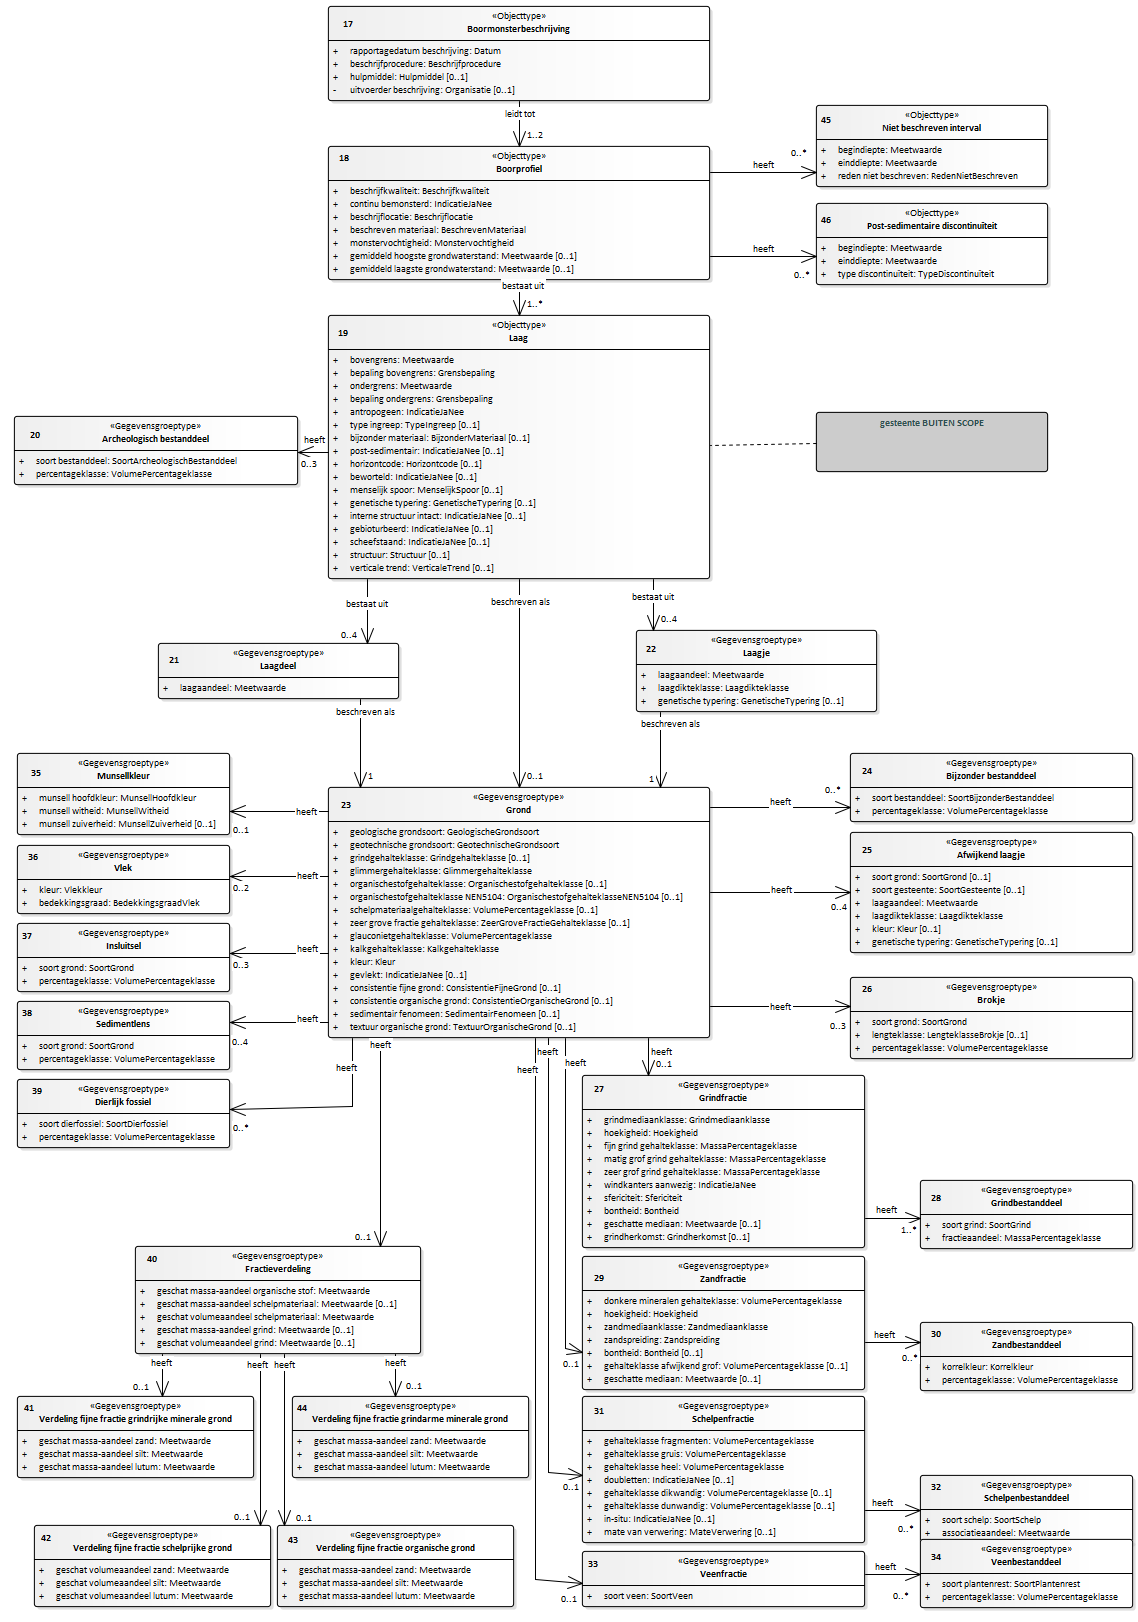
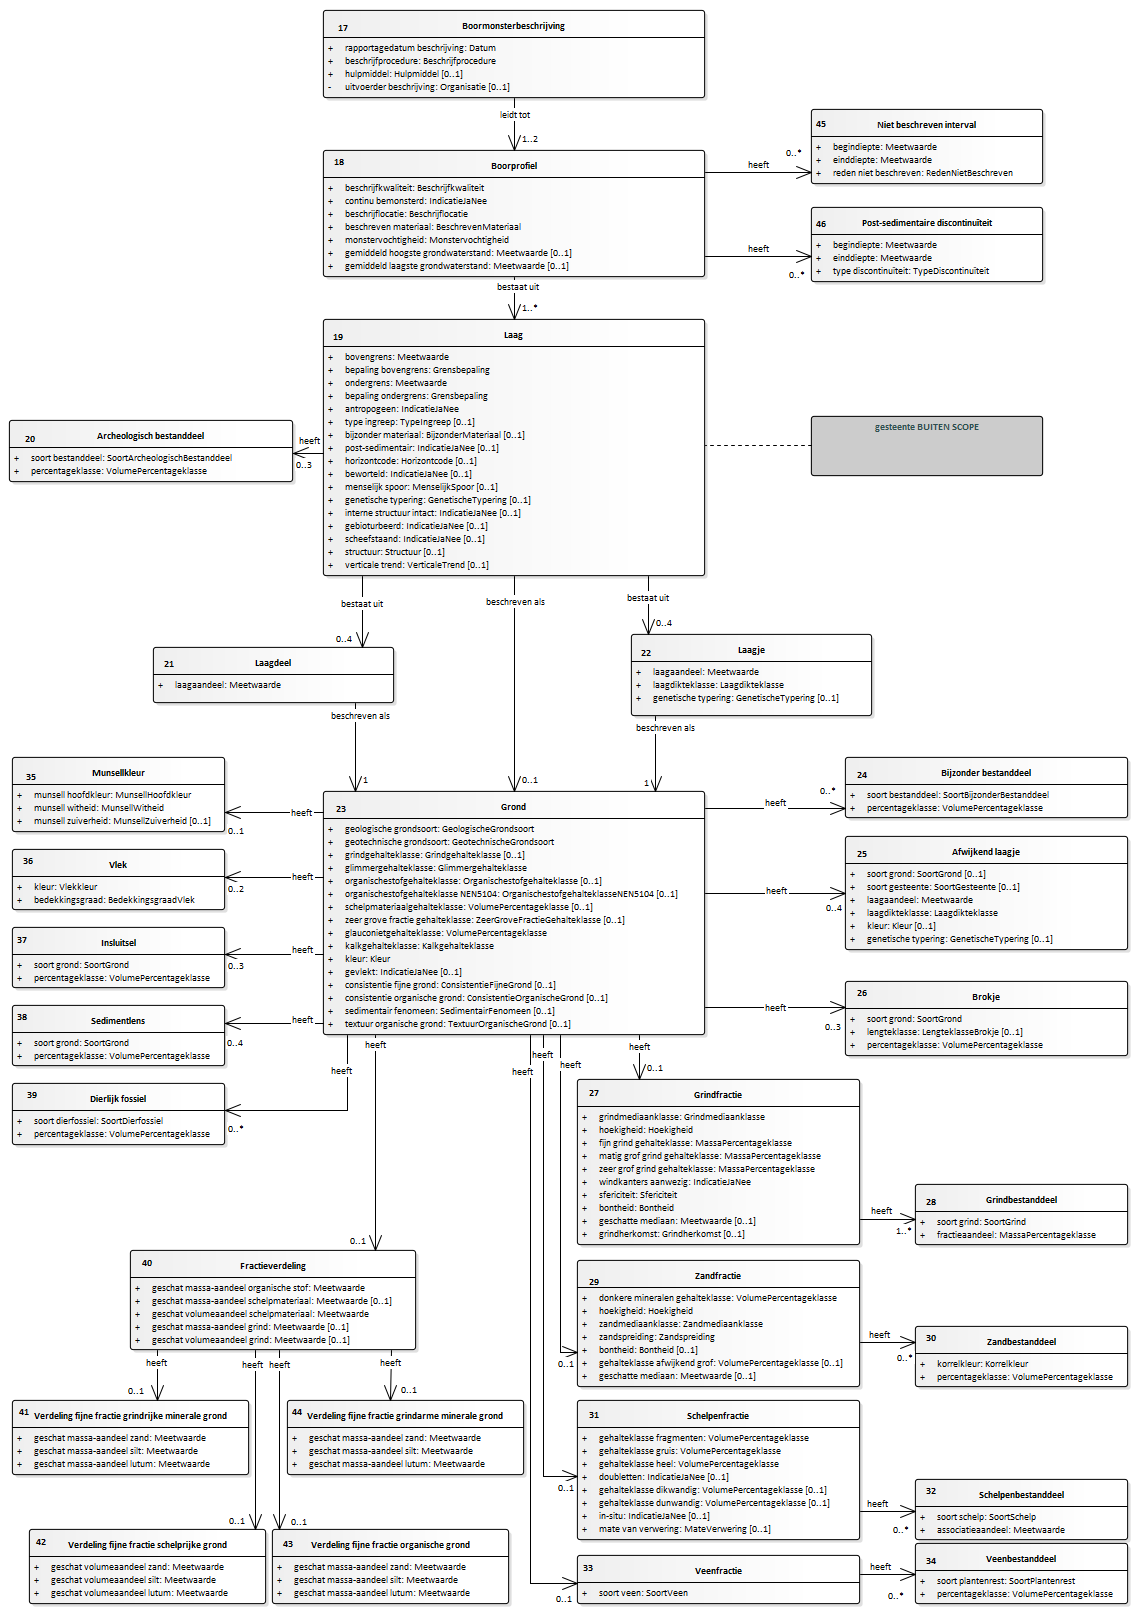
Conceptualmodel-GeologischbooronderzoekBHR-G-0.99-3-20200518-20200612-120352

diff --git a/data/BHR-G-cat.msword.html b/data/BHR-G-cat.msword.html
@@ -15,7 +15,7 @@
    <body>
       <p>Conceptual model/Geologisch booronderzoek (BHR-G)/20200518</p>
       <p>Imvertor: 1.60.0</p>
-      <p>Model release: Conceptualmodel-GeologischbooronderzoekBHR-G-0.99-3-20200518-20200612-113150</p>
+      <p>Model release: Conceptualmodel-GeologischbooronderzoekBHR-G-0.99-3-20200518-20200612-120352</p>
       <hr>
       <section>
          <h1>Artikel 1 Definitie van registratieobject, entiteiten en attributen</h1>
@@ -63,9 +63,11 @@
          <section>
             <h2>Het domeinmodel</h2>
             <section id="">
-               <div class="imageinfo overview"><img src="Images/EAID_B03B3DD6_C3FE_48fb_A2E3_66DF26B3775E.png" usemap="#imagemap-EAID_B03B3DD6_C3FE_48fb_A2E3_66DF26B3775E" alt="Diagram "><map name="imagemap-EAID_B03B3DD6_C3FE_48fb_A2E3_66DF26B3775E"><area shape="rect" alt="Boormonsterbeschrijving" coords="51,681,297,765" href="#graph_EAID_D89A831D_A496_41a9_AE6D_57069276AAC1"><area shape="rect" alt="Sliblaag" coords="10,551,338,649" href="#graph_EAID_6B7C049A_F2ED_4391_AEE5_49B2A387FDDF"><area shape="rect" alt="Terreintoestand" coords="787,409,1104,533" href="#graph_EAID_A1ADB2AE_C1B7_46a4_B599_DC0D0AD9F805"><area shape="rect" alt="Afgewerkt interval" coords="511,1206,796,1356" href="#graph_EAID_6B4288D5_BEF3_4680_90F4_9F076D0FC218"><area shape="rect" alt="Verontreinigd interval" coords="604,1115,796,1187" href="#graph_EAID_16F266E3_C973_4529_966E_A77E16CDBA8A"><area shape="rect" alt="Bemonsteringsapparaat" coords="877,1200,1123,1389" href="#graph_EAID_0AB2C94F_0BED_4e73_A604_516206E06046"><area shape="rect" alt="Bemonsterd interval" coords="877,1019,1123,1143" href="#graph_EAID_0575B591_1E52_4c9b_A2D6_F043C4141D37"><area shape="rect" alt="Geboord interval" coords="877,815,1123,913" href="#graph_EAID_ABF55F88_28B6_4d57_8D8A_F121A3AA0F51"><area shape="rect" alt="Weggegraven laag" coords="877,713,1123,798" href="#graph_EAID_6EB72656_FB81_4560_ACB8_5C3707345FCD"><area shape="rect" alt="Boring" coords="508,713,793,1019" href="#graph_EAID_AA486803_23A2_4a00_AA43_2F9E7827E064"><area shape="rect" alt="Gestandaardiseerde locatie" coords="787,302,1104,387" href="#graph_EAID_C5393969_2BB7_404b_BBF9_2124533B091A"><area shape="rect" alt="Aangeleverde verticale positie" coords="787,143,1104,280" href="#graph_EAID_68439F20_C656_42fd_B7EA_16FFDF536416"><area shape="rect" alt="Aangeleverde locatie" coords="787,10,1104,121" href="#graph_EAID_C4A3A09F_45F0_4623_AE32_E8AF9A703C62"><area shape="rect" alt="Tussentijdse gebeurtenis" coords="51,366,297,438" href="#graph_EAID_725A4724_B6D0_4341_A1C4_4F93AD3E6216"><area shape="rect" alt="Rapportagegeschiedenis" coords="51,246,297,318" href="#graph_EAID_8BEA8373_8624_4cd9_80EA_7EC93CED307F"><area shape="rect" alt="Registratiegeschiedenis" coords="10,10,338,212" href="#graph_EAID_C7F3AA17_23C9_4038_AA5F_EA56515F2929"><area shape="rect" alt="Booronderzoek" coords="400,10,716,212" href="#graph_EAID_660D0220_39EE_4290_AD92_C8E8CCEDB502"></map><p><b>Domeinmodel geologisch booronderzoek - Algemeen deel</b></p>
+               <div class="imageinfo overview"><img src="Images/EAID_B03B3DD6_C3FE_48fb_A2E3_66DF26B3775E.png" usemap="#imagemap-EAID_B03B3DD6_C3FE_48fb_A2E3_66DF26B3775E" alt="Diagram "><map name="imagemap-EAID_B03B3DD6_C3FE_48fb_A2E3_66DF26B3775E"><area shape="rect" alt="Boormonsteranalyse" coords="51,785,297,847" href="#graph_EAID_D7019E53_2AEA_424d_B23C_BFE117C25244"><area shape="rect" alt="Boormonsterbeschrijving" coords="51,681,297,743" href="#graph_EAID_D89A831D_A496_41a9_AE6D_57069276AAC1"><area shape="rect" alt="Sliblaag" coords="10,551,338,639" href="#graph_EAID_6B7C049A_F2ED_4391_AEE5_49B2A387FDDF"><area shape="rect" alt="Terreintoestand" coords="788,409,1104,523" href="#graph_EAID_A1ADB2AE_C1B7_46a4_B599_DC0D0AD9F805"><area shape="rect" alt="Afgewerkt interval" coords="511,1206,796,1346" href="#graph_EAID_6B4288D5_BEF3_4680_90F4_9F076D0FC218"><area shape="rect" alt="Verontreinigd interval" coords="604,1115,796,1177" href="#graph_EAID_16F266E3_C973_4529_966E_A77E16CDBA8A"><area shape="rect" alt="Bemonsteringsapparaat" coords="878,1200,1124,1379" href="#graph_EAID_0AB2C94F_0BED_4e73_A604_516206E06046"><area shape="rect" alt="Bemonsterd interval" coords="878,1022,1124,1136" href="#graph_EAID_0575B591_1E52_4c9b_A2D6_F043C4141D37"><area shape="rect" alt="Geboord interval" coords="878,815,1124,903" href="#graph_EAID_ABF55F88_28B6_4d57_8D8A_F121A3AA0F51"><area shape="rect" alt="Weggegraven laag" coords="878,713,1124,788" href="#graph_EAID_6EB72656_FB81_4560_ACB8_5C3707345FCD"><area shape="rect" alt="Boring" coords="508,713,793,1009" href="#graph_EAID_AA486803_23A2_4a00_AA43_2F9E7827E064"><area shape="rect" alt="Gestandaardiseerde locatie" coords="788,302,1104,377" href="#graph_EAID_C5393969_2BB7_404b_BBF9_2124533B091A"><area shape="rect" alt="Aangeleverde verticale positie" coords="788,143,1104,270" href="#graph_EAID_68439F20_C656_42fd_B7EA_16FFDF536416"><area shape="rect" alt="Aangeleverde locatie" coords="788,10,1106,111" href="#graph_EAID_C4A3A09F_45F0_4623_AE32_E8AF9A703C62"><area shape="rect" alt="Tussentijdse gebeurtenis" coords="51,366,297,428" href="#graph_EAID_725A4724_B6D0_4341_A1C4_4F93AD3E6216"><area shape="rect" alt="Rapportagegeschiedenis" coords="51,246,297,308" href="#graph_EAID_8BEA8373_8624_4cd9_80EA_7EC93CED307F"><area shape="rect" alt="Registratiegeschiedenis" coords="10,10,338,202" href="#graph_EAID_C7F3AA17_23C9_4038_AA5F_EA56515F2929"><area shape="rect" alt="Booronderzoek" coords="400,10,716,202" href="#graph_EAID_660D0220_39EE_4290_AD92_C8E8CCEDB502"></map><p><b>Domeinmodel geologisch booronderzoek - Algemeen deel</b></p>
                </div>
-               <div class="imageinfo overview"><img src="Images/EAID_A794A5F1_C52E_4a52_952F_D4257486C44D.png" usemap="#imagemap-EAID_A794A5F1_C52E_4a52_952F_D4257486C44D" alt="Diagram "><map name="imagemap-EAID_A794A5F1_C52E_4a52_952F_D4257486C44D"><area shape="rect" alt="Verdeling fijne fractie grindarme minerale grond" coords="292,1396,529,1478" href="#graph_EAID_6EE3DDDC_4909_4509_91BD_DDE3546FD55F"><area shape="rect" alt="Verdeling fijne fractie grindrijke minerale grond" coords="17,1396,254,1478" href="#graph_EAID_816F849B_EE57_4a63_B163_A7708B5EEF58"><area shape="rect" alt="Verdeling fijne fractie organische grond" coords="277,1525,514,1607" href="#graph_EAID_267BF639_C106_452f_A5DD_15FE467A3CF1"><area shape="rect" alt="Verdeling fijne fractie schelprijke grond" coords="34,1525,271,1607" href="#graph_EAID_93CE8907_FF55_4bd2_9E36_DA5B6F968E38"><area shape="rect" alt="Grindbestanddeel" coords="920,1180,1133,1249" href="#graph_EAID_4A0EAA22_B98A_40ab_99E0_04698F4C08BA"><area shape="rect" alt="Post-sedimentaire discontinuïteit" coords="816,203,1048,285" href="#graph_EAID_D8B61D97_C848_4530_A9DB_F214501ADF53"><area shape="rect" alt="Niet beschreven interval" coords="816,105,1048,187" href="#graph_EAID_D1B8B5BC_2593_4287_9911_E6AFEA261BCB"><area shape="rect" alt="Bijzonder bestanddeel" coords="850,753,1133,822" href="#graph_EAID_4F0594D5_D60B_4108_9A38_37406AA2A82C"><area shape="rect" alt="Archeologisch bestanddeel" coords="14,416,298,485" href="#graph_EAID_B5980F7E_4643_4554_8989_9286F031438D"><area shape="rect" alt="Veenbestanddeel" coords="920,1539,1133,1608" href="#graph_EAID_5F3BDA14_511E_4a71_B495_D18EA8D07526"><area shape="rect" alt="Dierlijk fossiel" coords="17,1079,230,1148" href="#graph_EAID_831DEC3E_C820_4cdd_8716_2130C32598A1"><area shape="rect" alt="Veenfractie" coords="582,1551,865,1607" href="#graph_EAID_D6519331_24B7_47db_96A6_0FDEF29D8598"><area shape="rect" alt="Insluitsel" coords="17,923,230,992" href="#graph_EAID_E9F6F0A4_C882_499a_9B69_8BFFC789091A"><area shape="rect" alt="Brokje" coords="850,977,1133,1059" href="#graph_EAID_E8E4BF08_C14B_422f_B5CC_EA90D8C691A8"><area shape="rect" alt="Sedimentlens" coords="17,1001,230,1070" href="#graph_EAID_96EA69F6_8C0A_495d_94DF_0C167447E3B2"><area shape="rect" alt="Schelpenbestanddeel" coords="920,1475,1133,1544" href="#graph_EAID_C6FB2597_5E69_4628_8DF5_A873F0BAC191"><area shape="rect" alt="Zandbestanddeel" coords="920,1322,1133,1391" href="#graph_EAID_A1C6C395_67C4_415f_B2B5_6D6AE296AAF1"><area shape="rect" alt="Schelpenfractie" coords="582,1396,865,1543" href="#graph_EAID_D94CB687_314F_497b_A97E_690C3FD45DCB"><area shape="rect" alt="Zandfractie" coords="582,1256,865,1390" href="#graph_EAID_F59FA036_0FB6_4102_B548_E3739D0F5337"><area shape="rect" alt="Grindfractie" coords="582,1075,865,1248" href="#graph_EAID_D638B481_2AB7_4cfa_8561_70F7790464B9"><area shape="rect" alt="Afwijkend laagje" coords="850,832,1133,953" href="#graph_EAID_71614E69_2DE8_47f6_BA28_42B91F39124E"><area shape="rect" alt="Laagje" coords="636,630,877,712" href="#graph_EAID_4EEEBF52_4872_4f50_A22C_1C42EAC70AEA"><area shape="rect" alt="Vlek" coords="17,845,230,914" href="#graph_EAID_5684B88C_B0A6_4f15_80B9_F014EC274105"><area shape="rect" alt="Munsellkleur" coords="17,753,230,835" href="#graph_EAID_0FA2E403_645C_4be0_86DA_2B5302628A29"><area shape="rect" alt="Fractieverdeling" coords="135,1246,421,1354" href="#graph_EAID_6986D2AE_EA69_4af6_812A_7C4CA90CCBF2"><area shape="rect" alt="Laagdeel" coords="158,643,399,699" href="#graph_EAID_DD0E1CDE_BC0D_4800_B824_DC905C0B6959"><area shape="rect" alt="Laag" coords="328,315,710,579" href="#graph_EAID_F9410F95_1E35_49a6_8BB8_D0E18D712643"><area shape="rect" alt="Boorprofiel" coords="328,146,710,280" href="#graph_EAID_2BA8A9AC_A3C1_452a_983C_282727BF9036"><area shape="rect" alt="Boormonsterbeschrijving" coords="328,6,710,101" href="#graph_EAID_D89A831D_A496_41a9_AE6D_57069276AAC1"><area shape="rect" alt="Grond" coords="328,787,710,1038" href="#graph_EAID_9A1B738F_E114_4c70_BDAF_7EABE244ADA0"></map><p><b>Domeinmodel geologisch booronderzoek - Boormonsterbeschrijving</b></p>
+               <div class="imageinfo overview"><img src="Images/EAID_A794A5F1_C52E_4a52_952F_D4257486C44D.png" usemap="#imagemap-EAID_A794A5F1_C52E_4a52_952F_D4257486C44D" alt="Diagram "><map name="imagemap-EAID_A794A5F1_C52E_4a52_952F_D4257486C44D"><area shape="rect" alt="Verdeling fijne fractie grindarme minerale grond" coords="287,1400,524,1475" href="#graph_EAID_6EE3DDDC_4909_4509_91BD_DDE3546FD55F"><area shape="rect" alt="Verdeling fijne fractie grindrijke minerale grond" coords="12,1400,249,1475" href="#graph_EAID_816F849B_EE57_4a63_B163_A7708B5EEF58"><area shape="rect" alt="Verdeling fijne fractie organische grond" coords="272,1529,509,1604" href="#graph_EAID_267BF639_C106_452f_A5DD_15FE467A3CF1"><area shape="rect" alt="Verdeling fijne fractie schelprijke grond" coords="29,1529,266,1604" href="#graph_EAID_93CE8907_FF55_4bd2_9E36_DA5B6F968E38"><area shape="rect" alt="Grindbestanddeel" coords="915,1184,1128,1245" href="#graph_EAID_4A0EAA22_B98A_40ab_99E0_04698F4C08BA"><area shape="rect" alt="Post-sedimentaire discontinuïteit" coords="811,207,1043,282" href="#graph_EAID_D8B61D97_C848_4530_A9DB_F214501ADF53"><area shape="rect" alt="Niet beschreven interval" coords="811,109,1043,184" href="#graph_EAID_D1B8B5BC_2593_4287_9911_E6AFEA261BCB"><area shape="rect" alt="Bijzonder bestanddeel" coords="845,757,1128,818" href="#graph_EAID_4F0594D5_D60B_4108_9A38_37406AA2A82C"><area shape="rect" alt="Archeologisch bestanddeel" coords="9,420,293,482" href="#graph_EAID_B5980F7E_4643_4554_8989_9286F031438D"><area shape="rect" alt="Veenbestanddeel" coords="915,1543,1128,1604" href="#graph_EAID_5F3BDA14_511E_4a71_B495_D18EA8D07526"><area shape="rect" alt="Dierlijk fossiel" coords="12,1083,225,1145" href="#graph_EAID_831DEC3E_C820_4cdd_8716_2130C32598A1"><area shape="rect" alt="Veenfractie" coords="577,1555,860,1604" href="#graph_EAID_D6519331_24B7_47db_96A6_0FDEF29D8598"><area shape="rect" alt="Insluitsel" coords="12,927,225,988" href="#graph_EAID_E9F6F0A4_C882_499a_9B69_8BFFC789091A"><area shape="rect" alt="Brokje" coords="845,981,1128,1056" href="#graph_EAID_E8E4BF08_C14B_422f_B5CC_EA90D8C691A8"><area shape="rect" alt="Sedimentlens" coords="12,1005,225,1066" href="#graph_EAID_96EA69F6_8C0A_495d_94DF_0C167447E3B2"><area shape="rect" alt="Schelpenbestanddeel" coords="915,1479,1128,1540" href="#graph_EAID_C6FB2597_5E69_4628_8DF5_A873F0BAC191"><area shape="rect" alt="Zandbestanddeel" coords="915,1326,1128,1387" href="#graph_EAID_A1C6C395_67C4_415f_B2B5_6D6AE296AAF1"><area shape="rect" alt="Schelpenfractie" coords="577,1400,860,1540" href="#graph_EAID_D94CB687_314F_497b_A97E_690C3FD45DCB"><area shape="rect" alt="Zandfractie" coords="577,1260,860,1387" href="#graph_EAID_F59FA036_0FB6_4102_B548_E3739D0F5337"><area shape="rect" alt="Grindfractie" coords="577,1079,860,1245" href="#graph_EAID_D638B481_2AB7_4cfa_8561_70F7790464B9"><area shape="rect" alt="Afwijkend laagje" coords="845,836,1128,950" href="#graph_EAID_71614E69_2DE8_47f6_BA28_42B91F39124E"><area shape="rect" alt="Laagje" coords="631,634,872,716" href="#graph_EAID_4EEEBF52_4872_4f50_A22C_1C42EAC70AEA"><area shape="rect" alt="Vlek" coords="12,849,225,910" href="#graph_EAID_5684B88C_B0A6_4f15_80B9_F014EC274105"><area shape="rect" alt="Munsellkleur" coords="12,757,225,832" href="#graph_EAID_0FA2E403_645C_4be0_86DA_2B5302628A29"><area shape="rect" alt="Fractieverdeling" coords="130,1250,416,1350" href="#graph_EAID_6986D2AE_EA69_4af6_812A_7C4CA90CCBF2"><area shape="rect" alt="Laagdeel" coords="153,647,394,703" href="#graph_EAID_DD0E1CDE_BC0D_4800_B824_DC905C0B6959"><area shape="rect" alt="Laag" coords="323,319,705,576" href="#graph_EAID_F9410F95_1E35_49a6_8BB8_D0E18D712643"><area shape="rect" alt="Boorprofiel" coords="323,150,705,277" href="#graph_EAID_2BA8A9AC_A3C1_452a_983C_282727BF9036"><area shape="rect" alt="Boormonsterbeschrijving" coords="323,10,705,98" href="#graph_EAID_D89A831D_A496_41a9_AE6D_57069276AAC1"><area shape="rect" alt="Grond" coords="323,791,705,1035" href="#graph_EAID_9A1B738F_E114_4c70_BDAF_7EABE244ADA0"></map><p><b>Domeinmodel geologisch booronderzoek - Boormonsterbeschrijving</b></p>
+               </div>
+               <div class="imageinfo overview"><img src="Images/EAID_76F6DEFC_B55C_48dc_8A41_C06CB9C946E4.png" usemap="#imagemap-EAID_76F6DEFC_B55C_48dc_8A41_C06CB9C946E4" alt="Diagram "><map name="imagemap-EAID_76F6DEFC_B55C_48dc_8A41_C06CB9C946E4"><area shape="rect" alt="Booronderzoek" coords="386,10,656,280" href="#graph_EAID_660D0220_39EE_4290_AD92_C8E8CCEDB502"><area shape="rect" alt="Bepaling volumieke massa vaste delen" coords="813,700,1091,827" href="#graph_EAID_2D03813A_C48B_4e71_858B_6AABF0111E5E"><area shape="rect" alt="Bepaling volumieke massa" coords="772,334,1061,435" href="#graph_EAID_FFAF64DE_5D7E_4590_8753_73F2984A2840"><area shape="rect" alt="Droogtemperatuur" coords="1139,578,1286,637" href="#graph_EAID_E8A9C654_6F39_4e73_842E_3798AAC46F2F"><area shape="rect" alt="BijzonderheidUitvoering" coords="1139,653,1286,712" href="#graph_EAID_A1C8B1DA_DADC_4917_B0A2_D47FF0389360"><area shape="rect" alt="Bepalingsprocedure" coords="1139,428,1286,487" href="#graph_EAID_432D4A75_623B_4617_958E_F73A45FC2E8E"><area shape="rect" alt="Bepalingsmethode" coords="1139,503,1286,562" href="#graph_EAID_121F1353_865E_4d90_BDA2_33E283671265"><area shape="rect" alt="BijzonderheidMateriaal" coords="1139,728,1286,800" href="#graph_EAID_2DB6B02D_D054_400e_AF7C_FED89AD042CA"><area shape="rect" alt="Bepaling droge volumieke massa" coords="813,556,1086,656" href="#graph_EAID_2A85811A_3E9F_4a76_9752_6A86F4B7BB4D"><area shape="rect" alt="Verzadigingsfase" coords="75,779,297,841" href="#graph_EAID_F9C46665_BBB9_4c61_9DC1_71B9CC75BA12"><area shape="rect" alt="Onderzocht materiaal" coords="10,540,305,680" href="#graph_EAID_F2AA089D_C13C_460b_9304_2860F47C68D5"><area shape="rect" alt="Bepaling porositeit" coords="388,758,655,872" href="#graph_EAID_58362F6D_98D5_45d4_BE1B_A7DAF1311092"><area shape="rect" alt="Onderzocht interval" coords="384,555,658,656" href="#graph_EAID_02F2AE73_C650_477c_AF76_2F01C5807B26"><area shape="rect" alt="Boormonsteranalyse" coords="407,359,635,421" href="#graph_EAID_D7019E53_2AEA_424d_B23C_BFE117C25244"></map><p><b>Domeinmodel geologisch booronderzoek - Boormonsteranalyse</b></p>
                </div>
             </section>
          </section>
